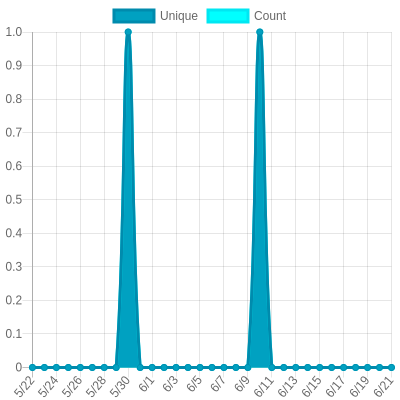
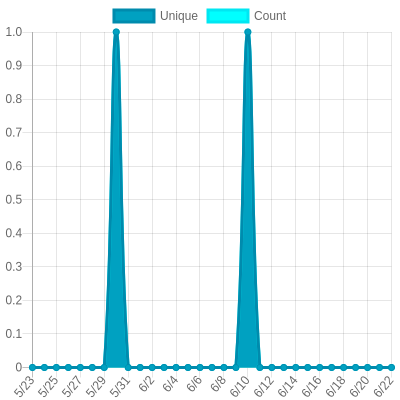
Update views

diff --git a/README.md b/README.md
@@ -67,9 +67,25 @@ The project created and maintained by [gayanvoice](https://github.com/gayanvoice
 			<img alt="Response time graph" src="https://github.com/Shek863/eagle_eyes/raw/master/graph/936112139/small/week.png" height="20"> 0
 		</td>
 	</tr>
+	<tr>
+		<td>
+			<a href="https://github.com/Shek863/eagle_eyes/tree/master/readme/414736908/week.md">
+				Shek863
+			</a>
+		</td>
+		<td>
+			2026/6/20 4:24 AM UTC
+		</td>
+		<td>
+			10
+		</td>
+		<td>
+			<img alt="Response time graph" src="https://github.com/Shek863/eagle_eyes/raw/master/graph/414736908/small/week.png" height="20"> 30
+		</td>
+	</tr>
 </table>
 
-<small><i>Last updated on 2026/6/22 5:20 AM UTC</i></small>
+<small><i>Last updated on 2026/6/22 12:21 PM UTC</i></small>
 
 ## ✂Copy and 📋 Paste
 ### Total Views Badge

diff --git a/readme/414736908/month.md b/readme/414736908/month.md
@@ -21,6 +21,17 @@
 	</tr>
 	<tr>
 		<td>
+			<code>2026/6/22</code>
+		</td>
+		<td>
+			<code>0</code>
+		</td>
+		<td>
+			<code>0</code>
+		</td>
+	</tr>
+	<tr>
+		<td>
 			<code>2026/6/21</code>
 		</td>
 		<td>
@@ -349,21 +360,10 @@
 			<code>0</code>
 		</td>
 	</tr>
-	<tr>
-		<td>
-			<code>2026/5/22</code>
-		</td>
-		<td>
-			<code>0</code>
-		</td>
-		<td>
-			<code>0</code>
-		</td>
-	</tr>
 </table>
 
 </details>
-<small><i>Last updated on 2026/6/21 7:56 PM UTC</i></small>
+<small><i>Last updated on 2026/6/22 12:21 PM UTC</i></small>
 
 ## ✂Copy and 📋 Paste
 ### SVG Badge

diff --git a/readme/414736908/week.md b/readme/414736908/week.md
@@ -21,6 +21,17 @@
 	</tr>
 	<tr>
 		<td>
+			<code>2026/6/22</code>
+		</td>
+		<td>
+			<code>0</code>
+		</td>
+		<td>
+			<code>0</code>
+		</td>
+	</tr>
+	<tr>
+		<td>
 			<code>2026/6/21</code>
 		</td>
 		<td>
@@ -96,21 +107,10 @@
 			<code>0</code>
 		</td>
 	</tr>
-	<tr>
-		<td>
-			<code>2026/6/14</code>
-		</td>
-		<td>
-			<code>0</code>
-		</td>
-		<td>
-			<code>0</code>
-		</td>
-	</tr>
 </table>
 
 </details>
-<small><i>Last updated on 2026/6/21 7:56 PM UTC</i></small>
+<small><i>Last updated on 2026/6/22 12:21 PM UTC</i></small>
 
 ## ✂Copy and 📋 Paste
 ### SVG Badge

diff --git a/readme/414736908/year.md b/readme/414736908/year.md
@@ -165,7 +165,7 @@
 </table>
 
 </details>
-<small><i>Last updated on 2026/6/21 7:56 PM UTC</i></small>
+<small><i>Last updated on 2026/6/22 12:21 PM UTC</i></small>
 
 ## ✂Copy and 📋 Paste
 ### SVG Badge

diff --git a/readme/470112460/month.md b/readme/470112460/month.md
@@ -363,7 +363,7 @@
 </table>
 
 </details>
-<small><i>Last updated on 2026/6/22 5:19 AM UTC</i></small>
+<small><i>Last updated on 2026/6/22 12:20 PM UTC</i></small>
 
 ## ✂Copy and 📋 Paste
 ### SVG Badge

diff --git a/readme/470112460/week.md b/readme/470112460/week.md
@@ -110,7 +110,7 @@
 </table>
 
 </details>
-<small><i>Last updated on 2026/6/22 5:19 AM UTC</i></small>
+<small><i>Last updated on 2026/6/22 12:20 PM UTC</i></small>
 
 ## ✂Copy and 📋 Paste
 ### SVG Badge

diff --git a/readme/470112460/year.md b/readme/470112460/year.md
@@ -165,7 +165,7 @@
 </table>
 
 </details>
-<small><i>Last updated on 2026/6/22 5:19 AM UTC</i></small>
+<small><i>Last updated on 2026/6/22 12:20 PM UTC</i></small>
 
 ## ✂Copy and 📋 Paste
 ### SVG Badge

diff --git a/readme/925978185/month.md b/readme/925978185/month.md
@@ -363,7 +363,7 @@
 </table>
 
 </details>
-<small><i>Last updated on 2026/6/22 5:19 AM UTC</i></small>
+<small><i>Last updated on 2026/6/22 12:20 PM UTC</i></small>
 
 ## ✂Copy and 📋 Paste
 ### SVG Badge

diff --git a/readme/925978185/week.md b/readme/925978185/week.md
@@ -110,7 +110,7 @@
 </table>
 
 </details>
-<small><i>Last updated on 2026/6/22 5:19 AM UTC</i></small>
+<small><i>Last updated on 2026/6/22 12:20 PM UTC</i></small>
 
 ## ✂Copy and 📋 Paste
 ### SVG Badge

diff --git a/readme/925978185/year.md b/readme/925978185/year.md
@@ -165,7 +165,7 @@
 </table>
 
 </details>
-<small><i>Last updated on 2026/6/22 5:19 AM UTC</i></small>
+<small><i>Last updated on 2026/6/22 12:20 PM UTC</i></small>
 
 ## ✂Copy and 📋 Paste
 ### SVG Badge

diff --git a/readme/936112139/month.md b/readme/936112139/month.md
@@ -363,7 +363,7 @@
 </table>
 
 </details>
-<small><i>Last updated on 2026/6/22 5:19 AM UTC</i></small>
+<small><i>Last updated on 2026/6/22 12:21 PM UTC</i></small>
 
 ## ✂Copy and 📋 Paste
 ### SVG Badge

diff --git a/readme/936112139/week.md b/readme/936112139/week.md
@@ -110,7 +110,7 @@
 </table>
 
 </details>
-<small><i>Last updated on 2026/6/22 5:19 AM UTC</i></small>
+<small><i>Last updated on 2026/6/22 12:21 PM UTC</i></small>
 
 ## ✂Copy and 📋 Paste
 ### SVG Badge
